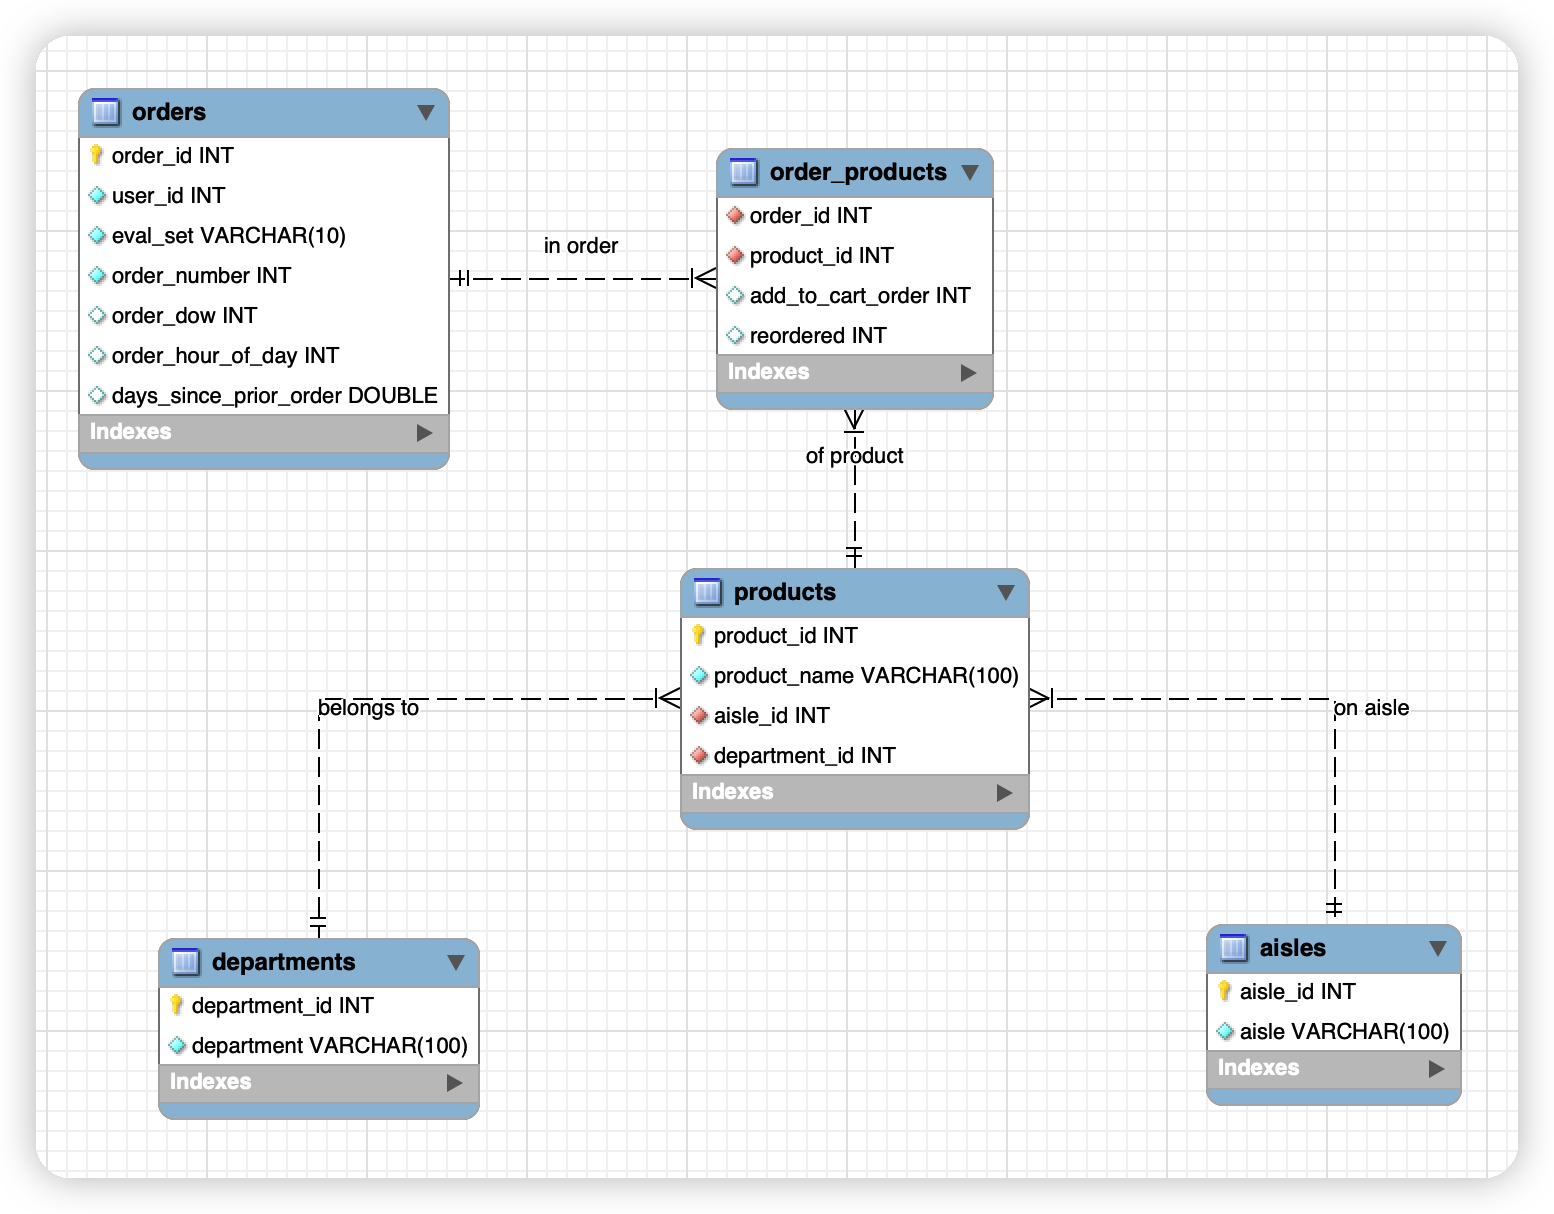
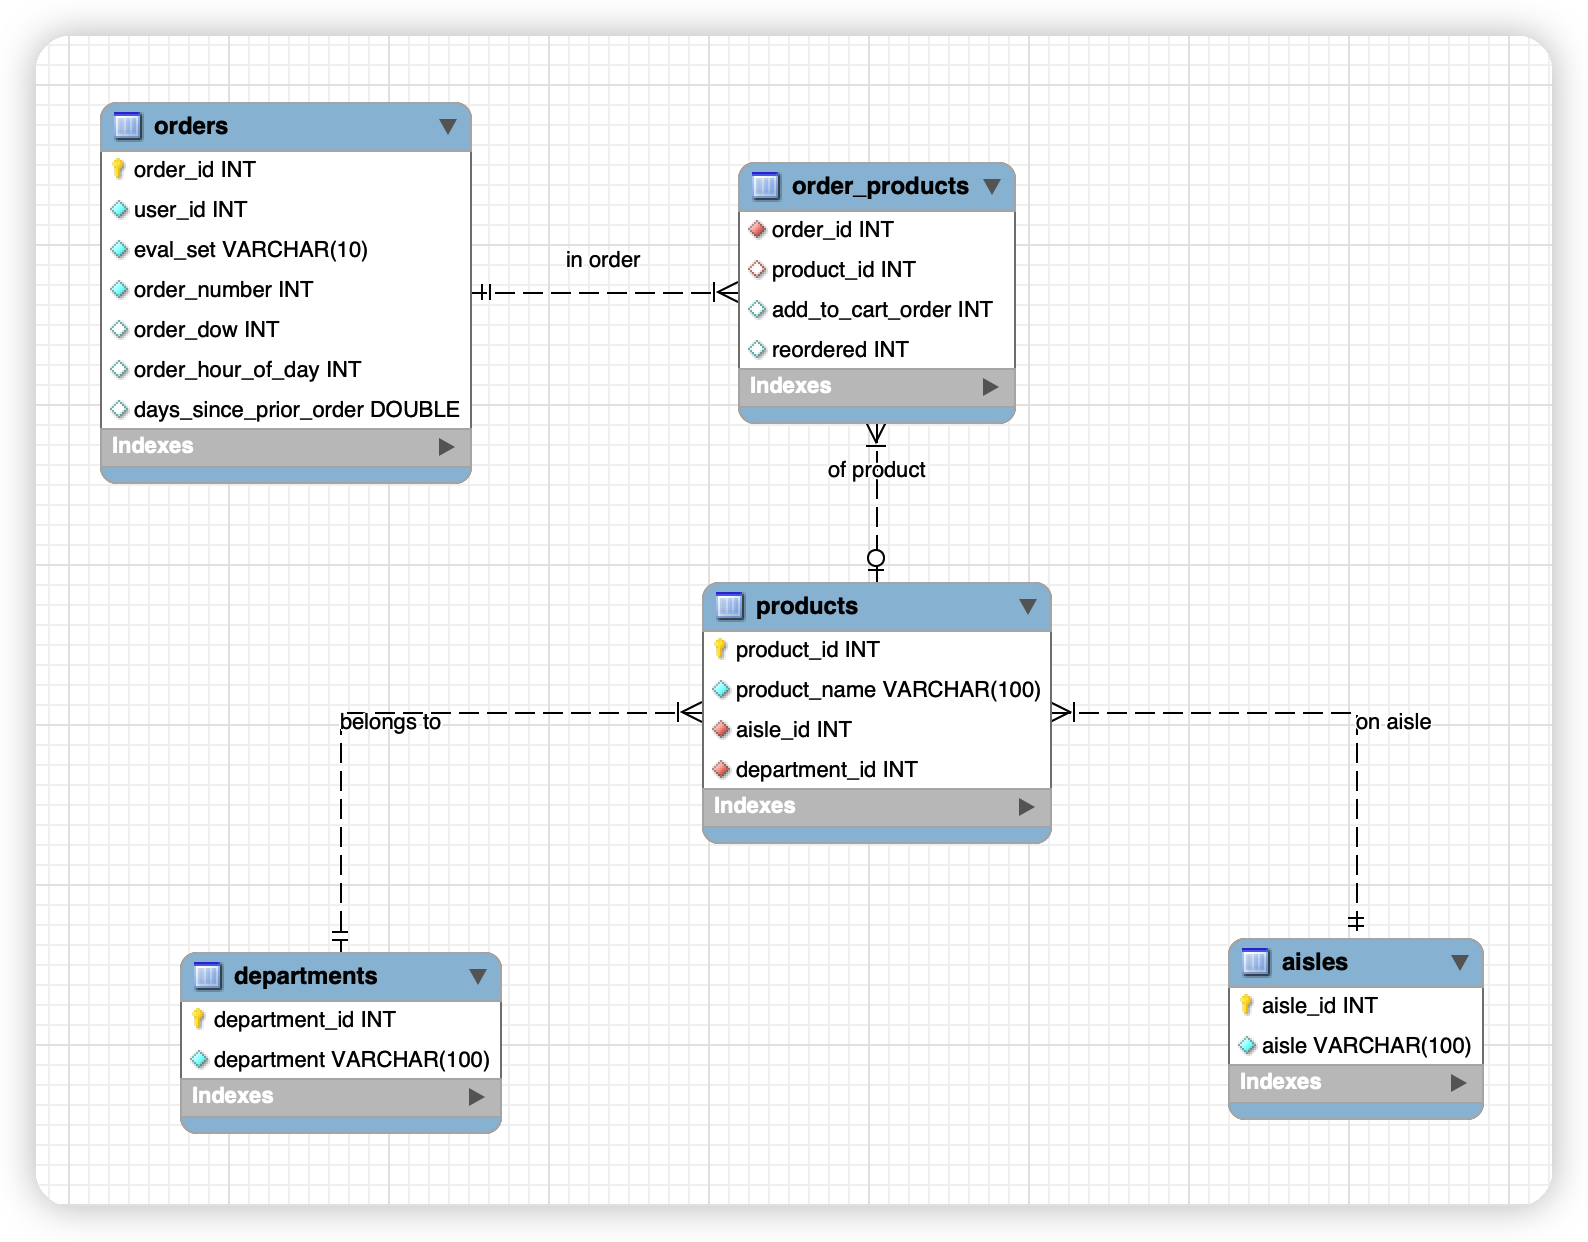
fixed some issues

diff --git a/part1/ER_diagram.md b/part1/ER_diagram.md
@@ -43,7 +43,7 @@ create table products (
 );
 ```
 
-### 2. Use reverse engineering to create the ER diagram in mysql workbench. Set relevant primary keys and NN values. Create relationships between the table, set the mandotory or optional relationship then save the generated ER diagram:
+### 2. Use reverse engineering to create the ER diagram in mysql workbench. Set relevant primary keys and NN values. Create relationships between the table. Set the mandotory or optional relationship (there may be prducts never ordered). Then, save the generated ER diagram:
 
 ![](assets/image/ER_diagram.png)
 
